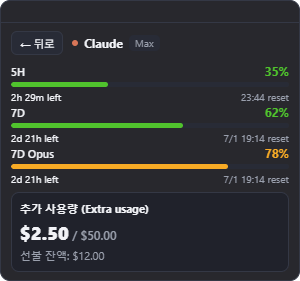
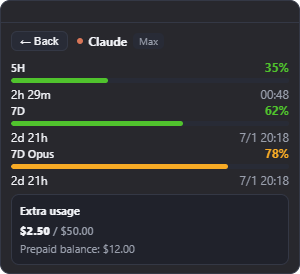
Update README screenshots for the current UI
Refresh the compact and detail shots (used %, no labels on the reset line,
time-only within 24h) and add a settings-screen screenshot. Screenshots use
mock data — no personal info.

diff --git a/README.md b/README.md
@@ -20,15 +20,17 @@ Inspired by [OpenTokenMonitor](https://github.com/Hitheshkaranth/OpenTokenMonito
 - 🟢 **Usage at a glance** — each window (5H / 7D / credits) shows the **used %** with a matching bar.
 - ⏱️ **Time-to-refresh first** — how much time is left is shown prominently, with the exact reset clock alongside.
 - 🔍 **Detail view** — click any card for plan tier, extra usage / overage ($), credits, and account details.
-- 🌐 **Auto language** — UI follows your OS language (English / Korean); compact labels stay short (`5H`, `7D`, `reset`, `left`).
+- 🌐 **Auto language** — UI follows your OS language (English / Korean); compact labels stay short (`5H`, `7D`).
 - 🪶 **Compact & always-on-top** — auto-sizes to its content; lives in the corner without taking over your screen.
-- ⚙️ **Tray menu** — refresh, always-on-top, launch-at-startup, Claude logout, quit.
+- ⚙️ **Settings screen** — always-on-top, launch-at-startup, 24-hour time, refresh interval, plus refresh / Claude logout / quit (open via the gear icon or the tray).
 
 ## Screenshots
 
-| Compact | Detail |
-|---|---|
-| <img src="assets/widget.png" width="300" /> | <img src="assets/detail.png" width="300" /> |
+| Compact | Detail | Settings |
+|---|---|---|
+| <img src="assets/widget.png" width="280" /> | <img src="assets/detail.png" width="280" /> | <img src="assets/settings.png" width="280" /> |
+
+Each window shows the **used %** with a bar, the time until refresh, and the exact reset clock. Click a card for plan tier and extra usage; open the gear (⚙) for settings.
 
 ## How it gets your usage
 